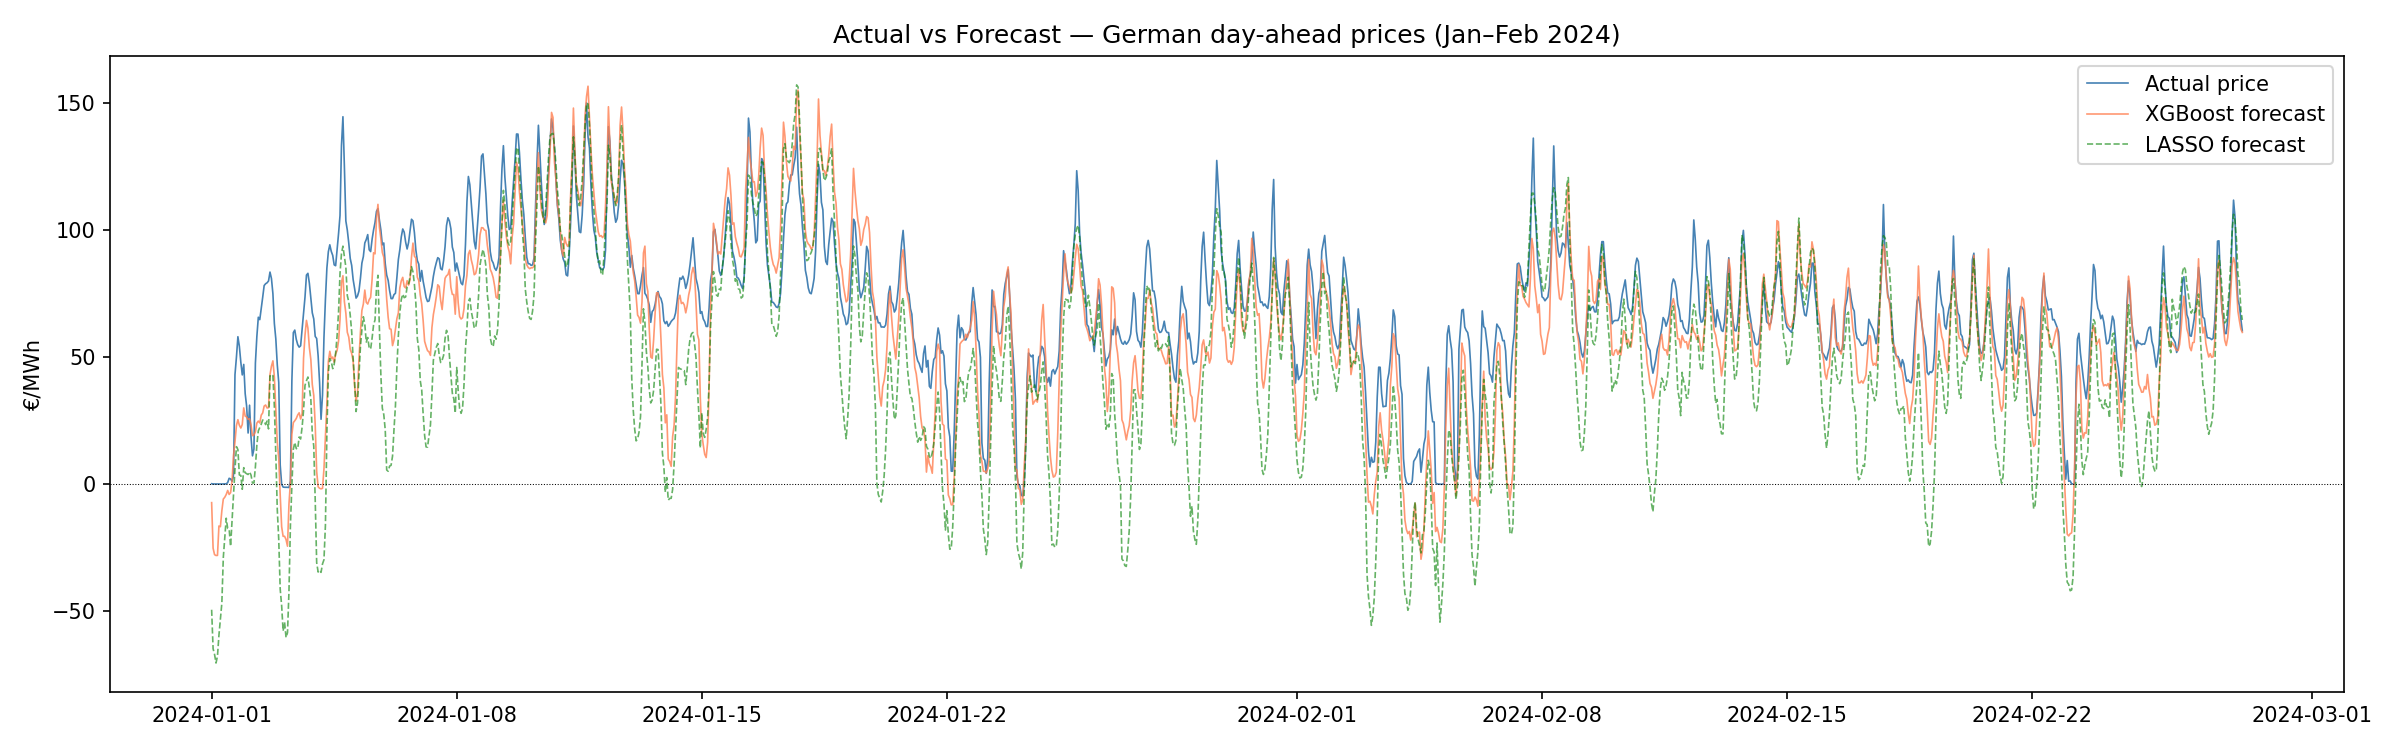
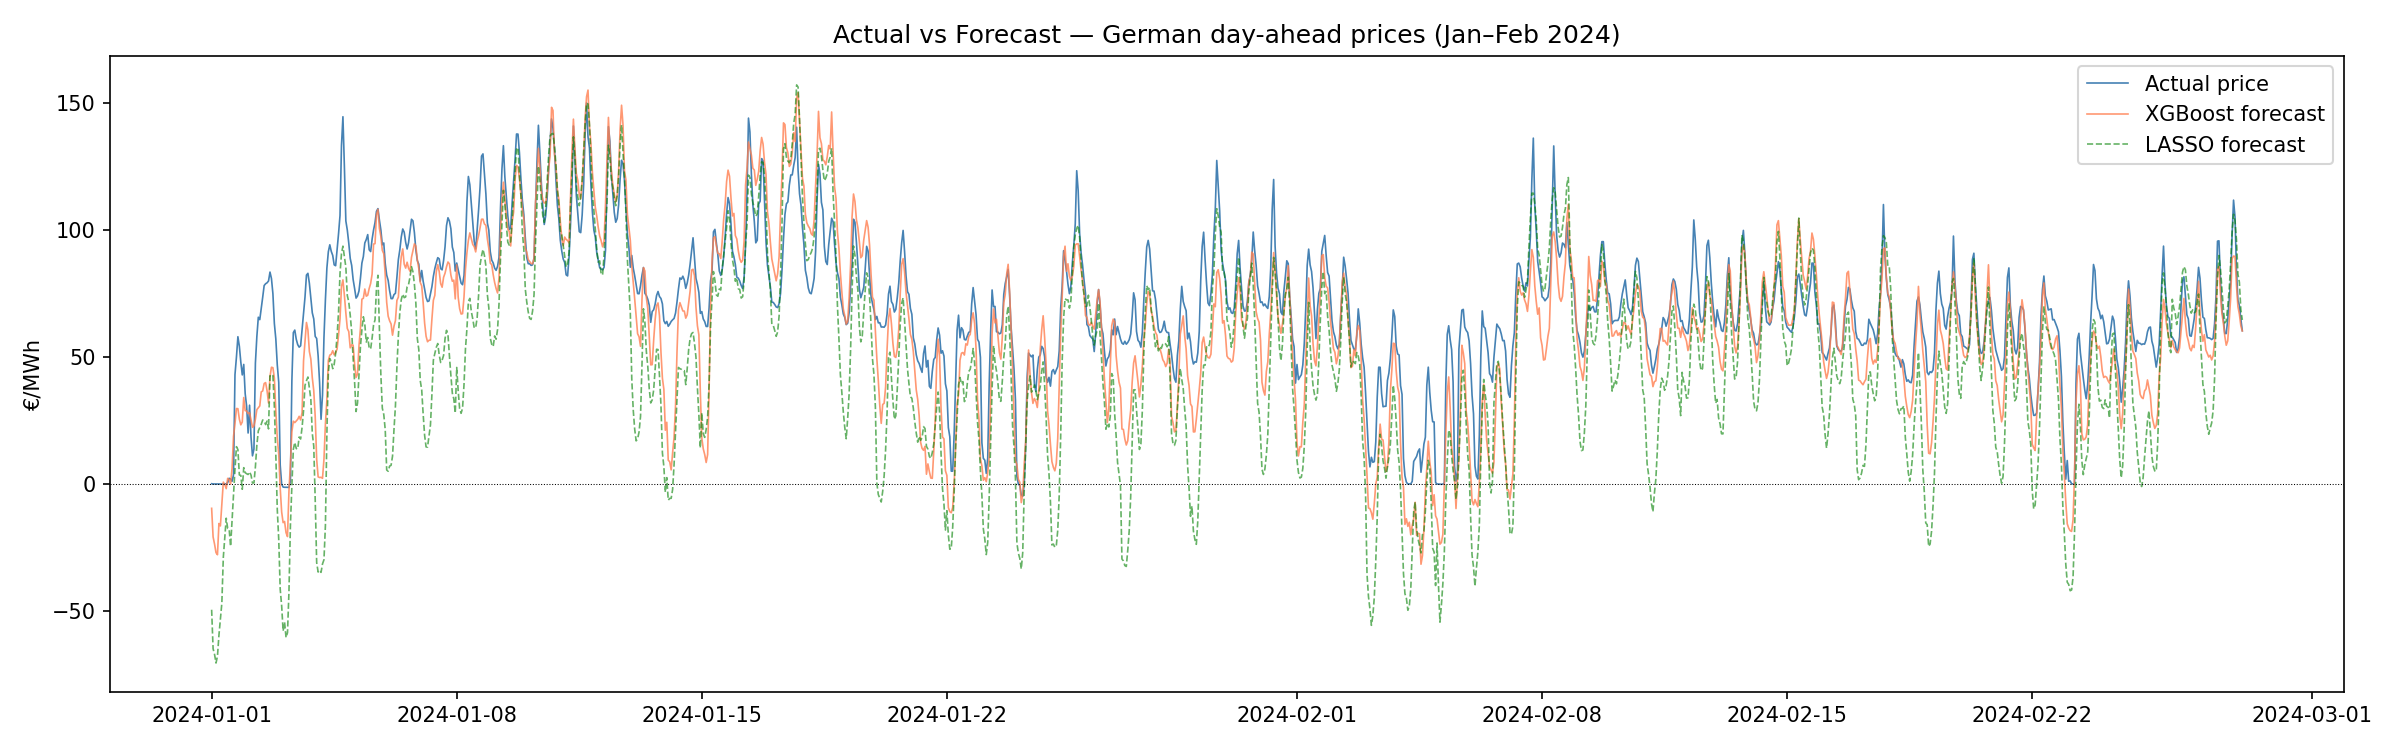
Hyperparameter tuning with Optuna

diff --git a/README.md b/README.md
@@ -24,19 +24,44 @@ improvement is in the **negative price regime**, where XGBoost reduces MAE by 65
 over the benchmark. This confirms that renewable generation forecasts carry
 systematic information about downside price risk that a simple lag model ignores.
 
+Hyperparameter tuning via Optuna improved XGBoost MAE from 16.58 to 16.17 €/MWh
+and Random Forest from 18.07 to 16.98 €/MWh — modest gains suggesting the
+feature set is the primary driver of performance rather than model configuration.
+
 | Regime | N | Benchmark | LASSO | Random Forest | XGBoost | Best improvement |
 |---|---|---|---|---|---|---|
-| Normal | 11,868 | 29.66 | 23.24 | 16.02 | **14.78** | −50% |
-| Negative | 671 | 50.93 | 33.94 | 19.77 | **17.62** | −65% |
-| Spike | 660 | 72.47 | 56.79 | 53.18 | **47.97** | −34% |
+| Normal | 11,868 | 29.66 | 23.24 | 15.09 | **14.28** | −52% |
+| Negative | 671 | 50.93 | 33.94 | 18.29 | **17.74** | −65% |
+| Spike | 660 | 72.47 | 56.79 | 49.73 | **48.47** | −33% |
 
-*All values in €/MWh MAE. Test period: July 2023 – December 2024.*
+*All values in €/MWh MAE. Tree models use Optuna-tuned hyperparameters.
+Test period: July 2023 – December 2024 (~13,000 hours).*
+
+---
+
+## LASSO Coefficients
+
+LASSO provides an interpretable read of which features matter and in which direction.
+All non-zero coefficients are directionally consistent with the underlying mechanism:
+
+| Feature | Coefficient | Interpretation |
+|---|---|---|
+| `price_lag_24h` | +69.2 | Strong autocorrelation — yesterday's price is the dominant signal |
+| `ren_load_ratio_fc` | −28.3 | Higher forecasted renewable share → lower prices ✅ |
+| `price_lag_168h` | +16.9 | Same hour last week carries information |
+| `price_roll_7d_mean` | +14.0 | Recent price level anchors expectations |
+| `net_export_lag24` | +11.9 | High net exports signal tight neighbouring markets |
+| `price_roll_7d_std` | +8.6 | Recent volatility raises expected price level |
+| `is_weekend` | −7.1 | Lower industrial load on weekends → lower prices ✅ |
+| `wind_off_error_lag24` | −1.8 | More offshore wind than expected → lower prices ✅ |
+| `wind_on_error_lag24` | −1.0 | More onshore wind than expected → lower prices ✅ |
 
 ---
 
 ## Methodology
 
 ### Data
+
 All data sourced from [SMARD](https://www.smard.de/en) — the German Federal Network
 Agency's electricity market data platform. Free, public, no registration required.
 
@@ -54,8 +79,8 @@ Period: 01/01/2020 – 31/12/2024, hourly resolution, 43,843 observations.
 ### Feature Engineering
 
 Features are constructed to be strictly available at prediction time (D-1).
-No actual generation values at time t are used — only day-ahead forecasts and
-lagged actuals.
+No actual generation values at time t are used — only day-ahead forecasts
+and lagged actuals.
 
 **Forecast-based features** (available at prediction time):
 - Forecasted renewable load ratio — wind + solar forecast as share of load forecast
@@ -76,14 +101,16 @@ lagged actuals.
 
 ### Models
 
-Three models are trained and compared against a naive benchmark:
+| Model | MAE (€/MWh) | Notes |
+|---|---|---|
+| Benchmark | 32.88 | Same hour one week ago |
+| LASSO | 25.46 | Standardised, TimeSeriesSplit CV |
+| Random Forest | 16.98 | 581 trees, Optuna-tuned |
+| XGBoost | 16.17 | 480 estimators, Optuna-tuned |
 
-- **Benchmark** — same hour one week ago (`price_lag_168h`)
-- **LASSO** — with standardisation and 5-fold time-series cross-validation,
-  selected for interpretability. Coefficients show which features survive
-  regularisation and in which direction.
-- **Random Forest** — 500 trees, max depth 10
-- **XGBoost** — 500 estimators, learning rate 0.05, early stopping on validation set
+**Optuna tuning:** 100 trials for XGBoost, 50 for Random Forest, using TPE sampler.
+Best XGBoost params: `n_estimators=480, max_depth=6, learning_rate=0.021,
+subsample=0.61, colsample_bytree=0.89, min_child_weight=1, gamma=0.96`
 
 ### Evaluation
 
@@ -92,7 +119,7 @@ Train/test split is strictly time-based — no random shuffling.
 
 Evaluation is split into three price regimes:
 - **Normal** — all hours outside the other two regimes
-- **Negative** — hours where actual price < 0 €/MWh
+- **Negative** — hours where actual price < 0 €/MWh (671 hours, 5.1% of test set)
 - **Spike** — hours in the top 5th percentile of actual prices
 
 Overall MAE is insufficient for this problem. A model that predicts average prices
@@ -103,16 +130,16 @@ regime-split table is the core result.
 
 ## Caveats
 
-**Spike regime:** Absolute errors remain high even for the best model (47.97 €/MWh).
+**Spike regime:** Absolute errors remain high even for the best model (48.47 €/MWh).
 Extreme price spikes are often driven by gas supply shocks, cold snaps, or
 transmission constraints — events not captured by renewable forecast features alone.
-Adding TTF natural gas prices as a feature is the natural next step.
+Adding TTF natural gas prices is the natural next step.
 
 **Data snooping:** An earlier version of this model used contemporaneous actual
 generation values as features, which constitutes look-ahead bias. All features in
 the current version are strictly constructed from information available at prediction
-time. Results are slightly better after fixing this, which suggests the day-ahead
-forecast itself — not the realised error — is the primary price signal.
+time. Results improved after fixing this, suggesting the day-ahead forecast itself
+— not the realised error — is the primary price signal.
 
 ---
 
@@ -155,7 +182,7 @@ Run notebooks in order: 01 → 02 → 03 → 04.
 
 ## Tools
 
-Python · pandas · scikit-learn · XGBoost · matplotlib · JupyterLab · VSCode
+Python · pandas · scikit-learn · XGBoost · Optuna · matplotlib · JupyterLab · VSCode
 
 ---
 
@@ -163,5 +190,7 @@ Python · pandas · scikit-learn · XGBoost · matplotlib · JupyterLab · VSCod
 
 1. **Add TTF gas prices** — gas sets the marginal price during high-demand hours.
    Expected to improve spike regime performance significantly.
-2. **Intraday vs day-ahead spread** — same data, sharper question about whether
+2. **LSTM** — capture temporal dependencies beyond lagged features using a
+   sequence model.
+3. **Intraday vs day-ahead spread** — same data, sharper question about whether
    day-ahead forecast errors predict the intraday correction.